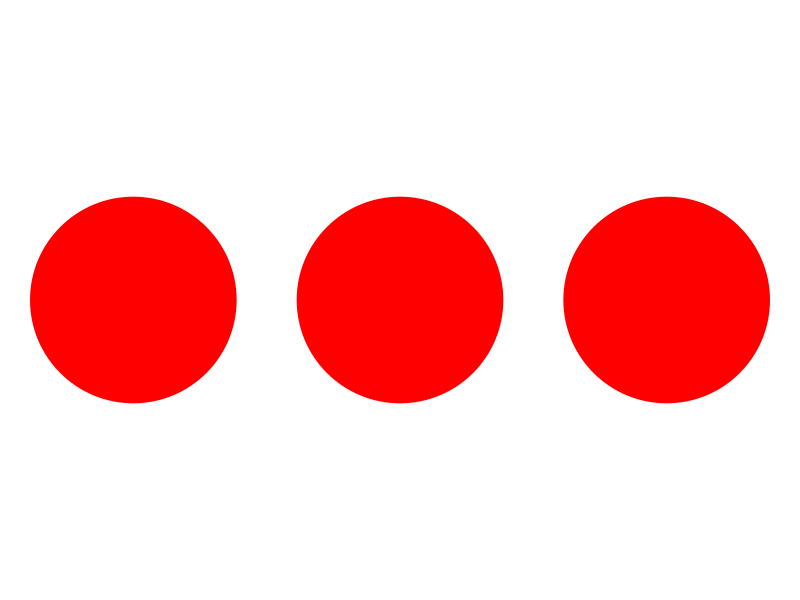
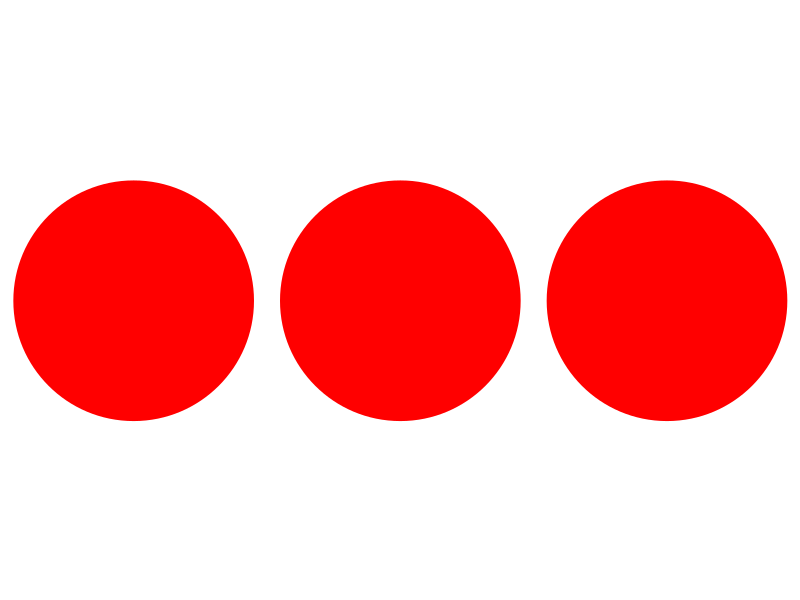
Improve padding.

Changed region(s): [[0.0, 0.3, 1.0, 0.72]]

diff --git a/src/Leaf.ts b/src/Leaf.ts
@@ -27,7 +27,10 @@ export class LeafComponent extends Container implements Positioner {
   _maxHeight: number | string = Infinity;
   _minWidth: number | string = 0;
   _minHeight: number | string = 0;
-  _padding: number | string = 0;
+  _paddingTop: number | string = 0;
+  _paddingBottom: number | string = 0;
+  _paddingLeft: number | string = 0;
+  _paddingRight: number | string = 0;
   _xAlign: Align = Align.None;
   _yAlign: Align = Align.None;
   _resize: Resize = Resize.None;
@@ -59,7 +62,30 @@ export class LeafComponent extends Container implements Positioner {
   }
 
   padding(value: number | string): this {
-    this._padding = value;
+    this._paddingTop = value;
+    this._paddingBottom = value;
+    this._paddingLeft = value;
+    this._paddingRight = value;
+    return this;
+  }
+
+  paddingTop(value: number | string): this {
+    this._paddingTop = value;
+    return this;
+  }
+
+  paddingBottom(value: number | string): this {
+    this._paddingBottom = value;
+    return this;
+  }
+
+  paddingLeft(value: number | string): this {
+    this._paddingLeft = value;
+    return this;
+  }
+
+  paddingRight(value: number | string): this {
+    this._paddingRight = value;
     return this;
   }
 
@@ -113,15 +139,20 @@ export class LeafComponent extends Container implements Positioner {
     this._space = rect.clone();
     let space = rect.clone();
 
-    let padding = getDimension(
-      this._padding,
-      Math.max(space.width, space.height),
-    );
-
-    space.x += padding;
-    space.y += padding;
-    space.width -= padding * 2;
-    space.height -= padding * 2;
+    if (this._paddingTop) {
+      space.y += getDimension(this._paddingTop, space.height);
+      space.height -= getDimension(this._paddingTop, space.height);
+    }
+    if (this._paddingBottom) {
+      space.height -= getDimension(this._paddingBottom, space.height);
+    }
+    if (this._paddingLeft) {
+      space.x += getDimension(this._paddingLeft, space.width);
+      space.width -= getDimension(this._paddingLeft, space.width);
+    }
+    if (this._paddingRight) {
+      space.width -= getDimension(this._paddingRight, space.width);
+    }
 
     let maxWidth = getDimension(this._maxWidth, space.width);
     let maxHeight = getDimension(this._maxHeight, space.height);
@@ -203,7 +234,7 @@ export class LeafComponent extends Container implements Positioner {
 
     if ("arrange" in this._child) {
       let child = this._child as Positioner;
-      child.arrange(this._space);
+      child.arrange(space);
     }
   }
 }
